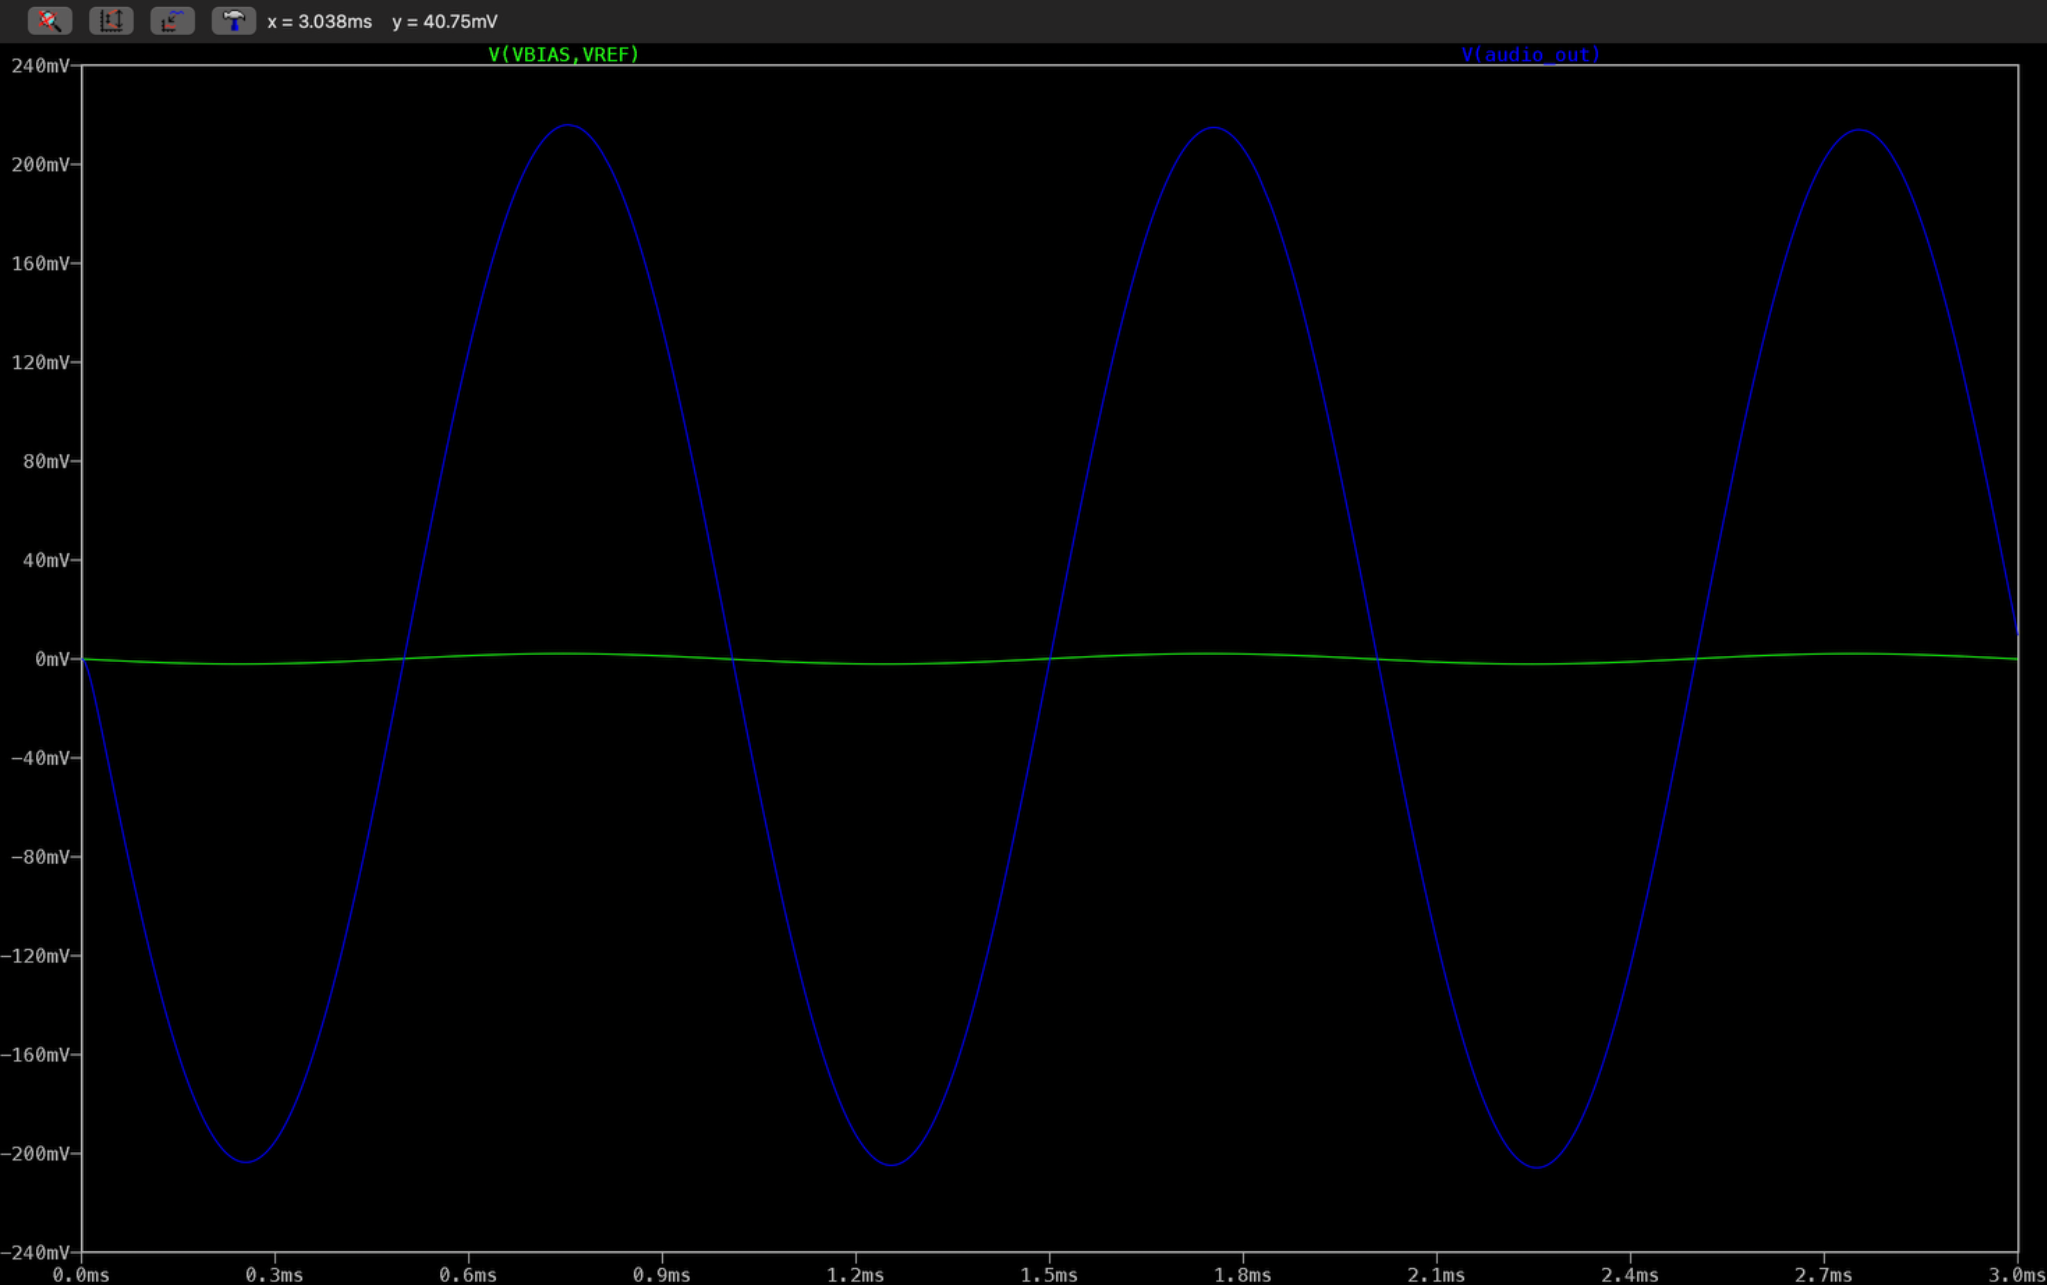
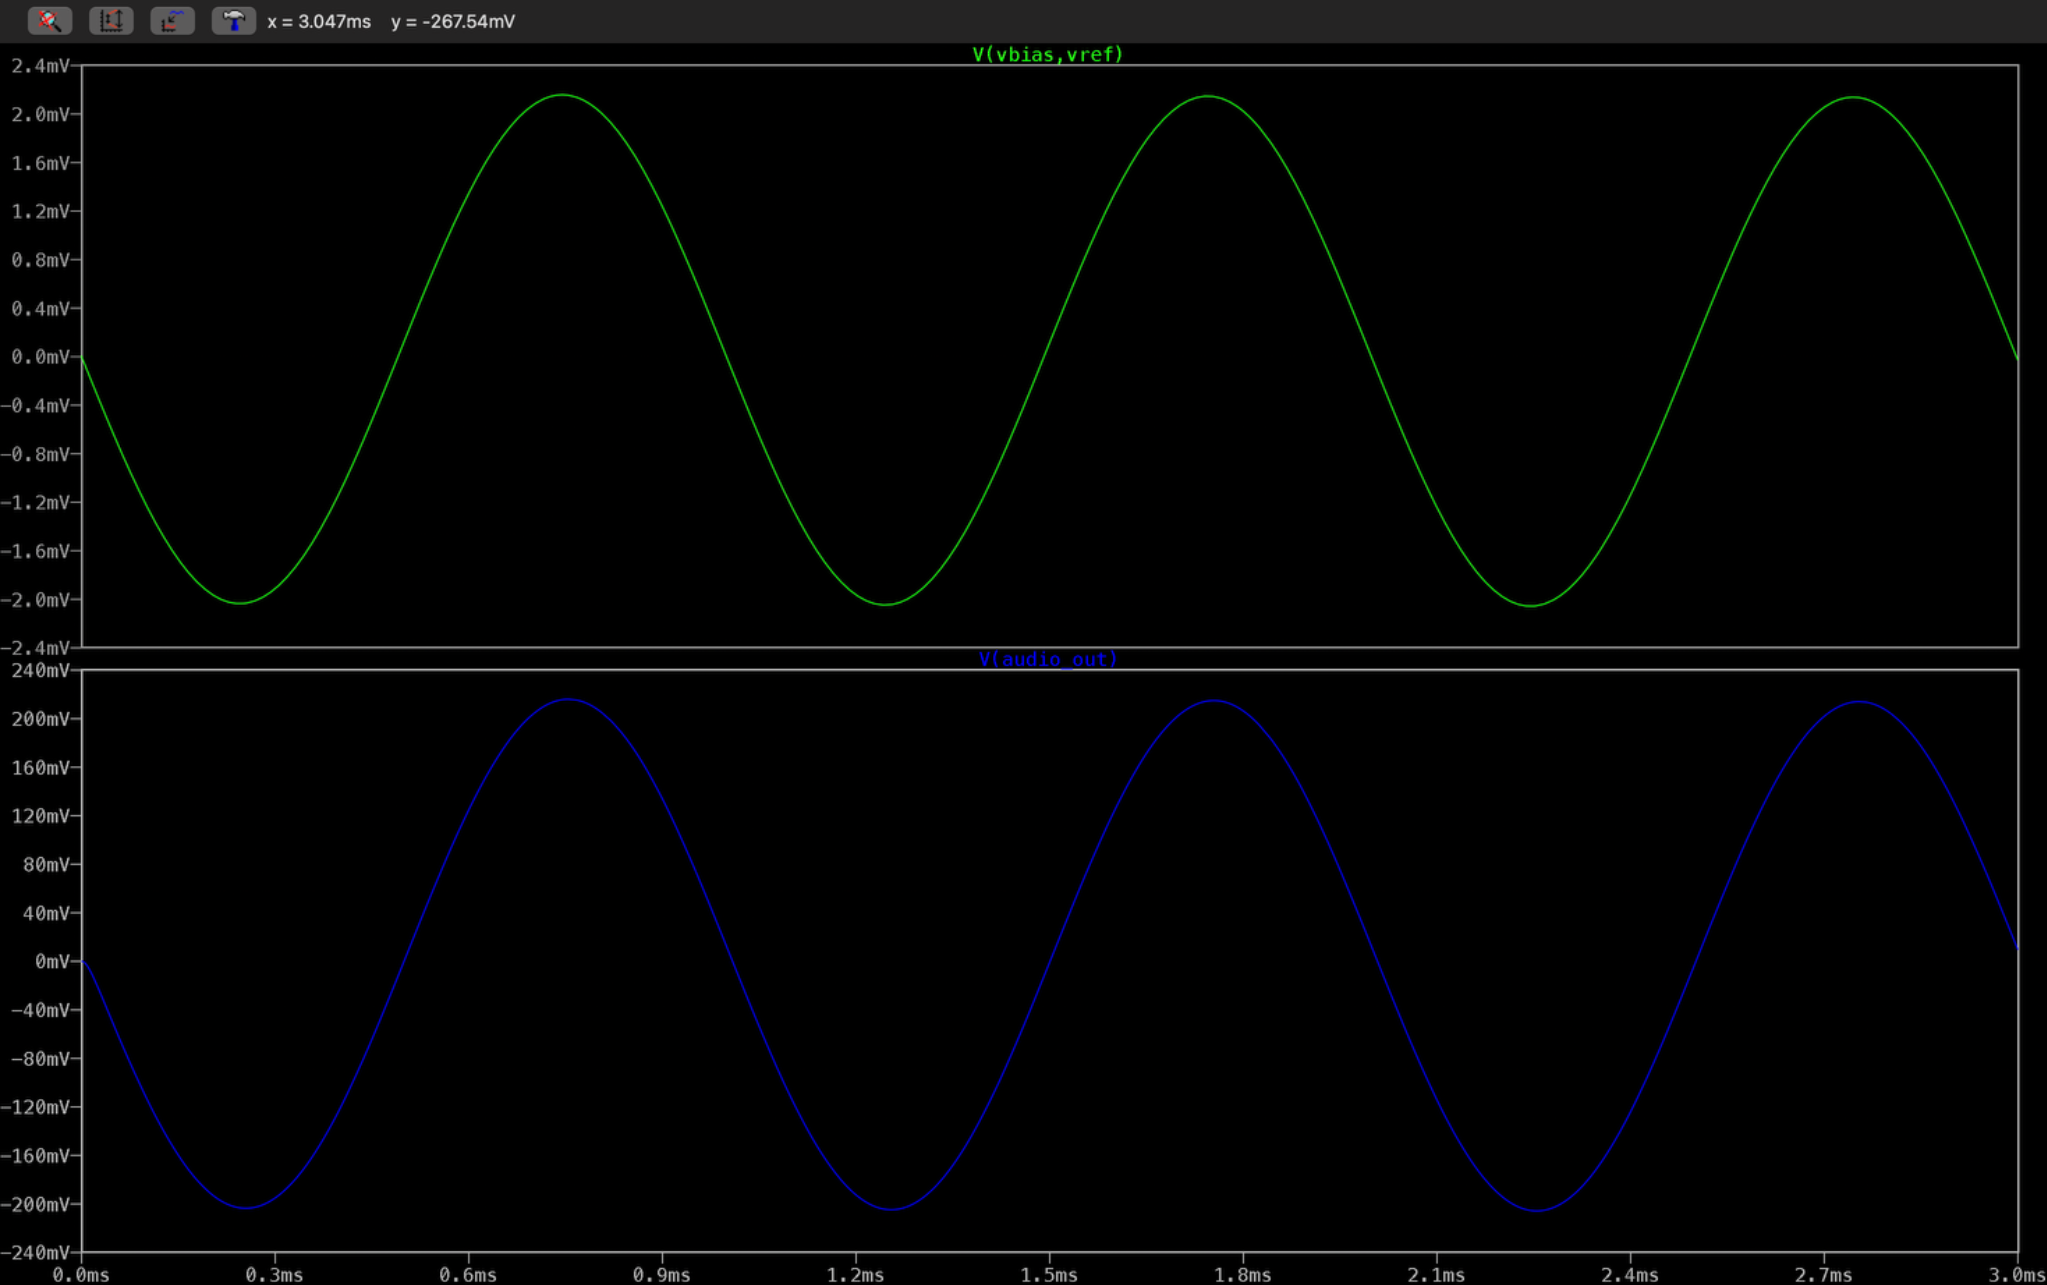
Updated AD8656 transient simulation screenshot

diff --git a/README.md b/README.md
@@ -137,7 +137,7 @@ The editable KiCad source files above contain the final PCB revision. The 3D pre
 
 ![AD8656 LTspice 1 kHz transient response](docs/ltspice/ltspice_transient_1khz_ad8656.png)
 
-*LTspice transient simulation at `Rpot=1 Ω` with `I1 = SINE(250u 1u 1k)`. The blue trace shows the AC-coupled output; the green input-relative-to-VREF trace appears nearly flat on the shared voltage scale. The plot is simulated, not a hardware measurement.*
+*AD8656 LTspice transient simulation at 1 kHz (`Rpot=1 Ω`, `I1 = SINE(250u 1u 1k)`). Separate scales show approximately 4.2 mVpp input (`V(VBIAS,VREF)`) and 420 mVpp output (`V(AUDIO_OUT)`), corresponding to approximately 100 V/V (40 dB) simulated gain. The plot does not establish measured hardware performance or total harmonic distortion.*
 
 The [AD8656 simulation schematic](simulation/ltspice/Microphone_Preamplifier_AD8656.asc) contains the revised op-amp stages and references the external `ad8656.cir` model. The model file is not included, and the revised simulation has **not yet been independently verified**. The switch and LED are not represented in this analog signal-path simulation.
 
